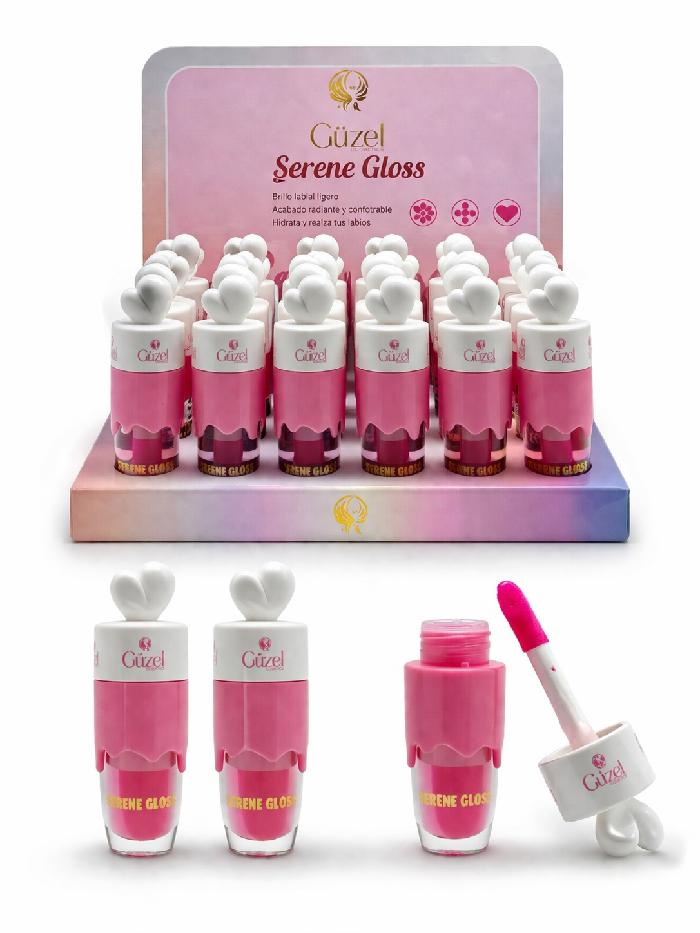
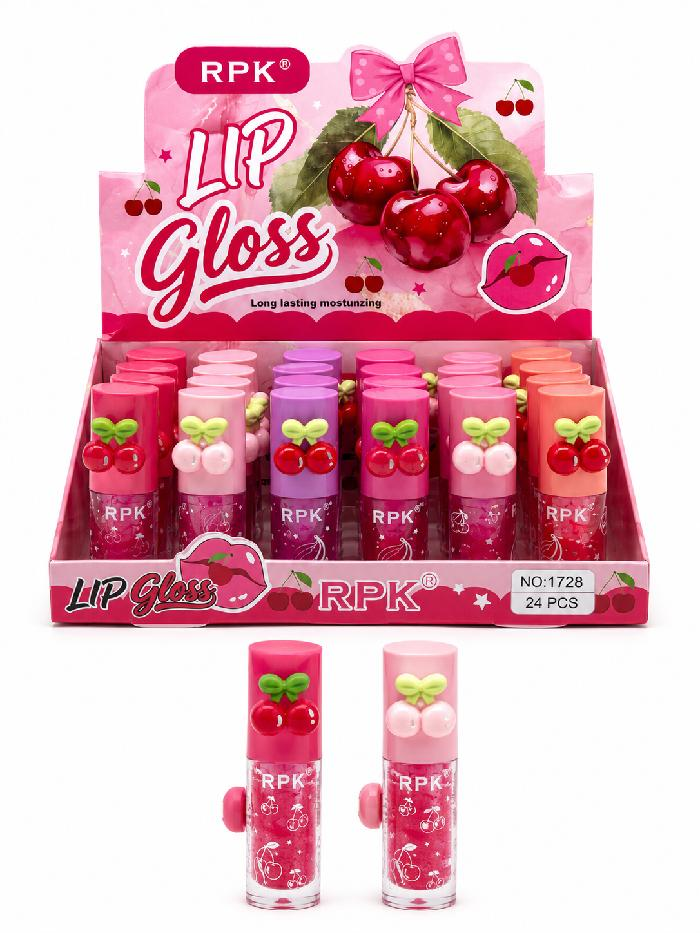
Add files via upload

diff --git a/labios.html b/labios.html
@@ -225,45 +225,48 @@ SMILE CRAZY ($8,000)</div></div>
     </a>
   </div>
 
+
+
+
 <div class="foto">
-      <img src="lb4.jpeg" alt="Foto 2" />
+      <img src="lb5.jpeg" alt="Foto 2" />
       <div class="overlay"><div class="texto">BRILLO LABIOS XL SERENE GLOSS($12,000)</div></div>
     </a>
   </div>
 
 <div class="foto">
-      <img src="lb5.jpeg" alt="Foto 2" />
+      <img src="lb6.jpeg" alt="Foto 2" />
       <div class="overlay"><div class="texto">VOLUMINIZADOR LIFTER
 PLUMPING APLICADOR GRUESO ($7,000)</div></div>
     </a>
   </div>
 
 <div class="foto">
-      <img src="lb6.jpeg" alt="Foto 2" />
+      <img src="lb7.jpeg" alt="Foto 2" />
       <div class="overlay"><div class="texto">BALSAMO LABIAL DE ΜΕΝΤΑ BIOAQUA ($5,000)</div></div>
     </a>
   </div>
 
 <div class="foto">
-      <img src="lb7.jpeg" alt="Foto 2" />
+      <img src="lb8.jpeg" alt="Foto 2" />
       <div class="overlay"><div class="texto">BALSAMO LABIAL MELOCOTÓN ($5,000)</div></div>
     </a>
   </div>
 
 <div class="foto">
-      <img src="lb8.jpeg" alt="Foto 2" />
+      <img src="lb9.jpeg" alt="Foto 2" />
       <div class="overlay"><div class="texto">BALSAMO LABIAL FRESA ($5,000)</div></div>
     </a>
   </div>
 
 <div class="foto">
-      <img src="lb9.jpeg" alt="Foto 2" />
+      <img src="lb10.jpeg" alt="Foto 2" />
       <div class="overlay"><div class="texto">BRILLO DE LABIOS FRESA LARGA DURACIÓN ($8,000)</div></div>
     </a>
   </div>
 
 <div class="foto">
-      <img src="lb10.jpeg" alt="Foto 2" />
+      <img src="lb4.jpeg" alt="Foto 2" />
       <div class="overlay"><div class="texto">BRILLO DE LABIOS CEREZA LARGA DURACIÓN ($8,000)</div></div>
     </a>
   </div>